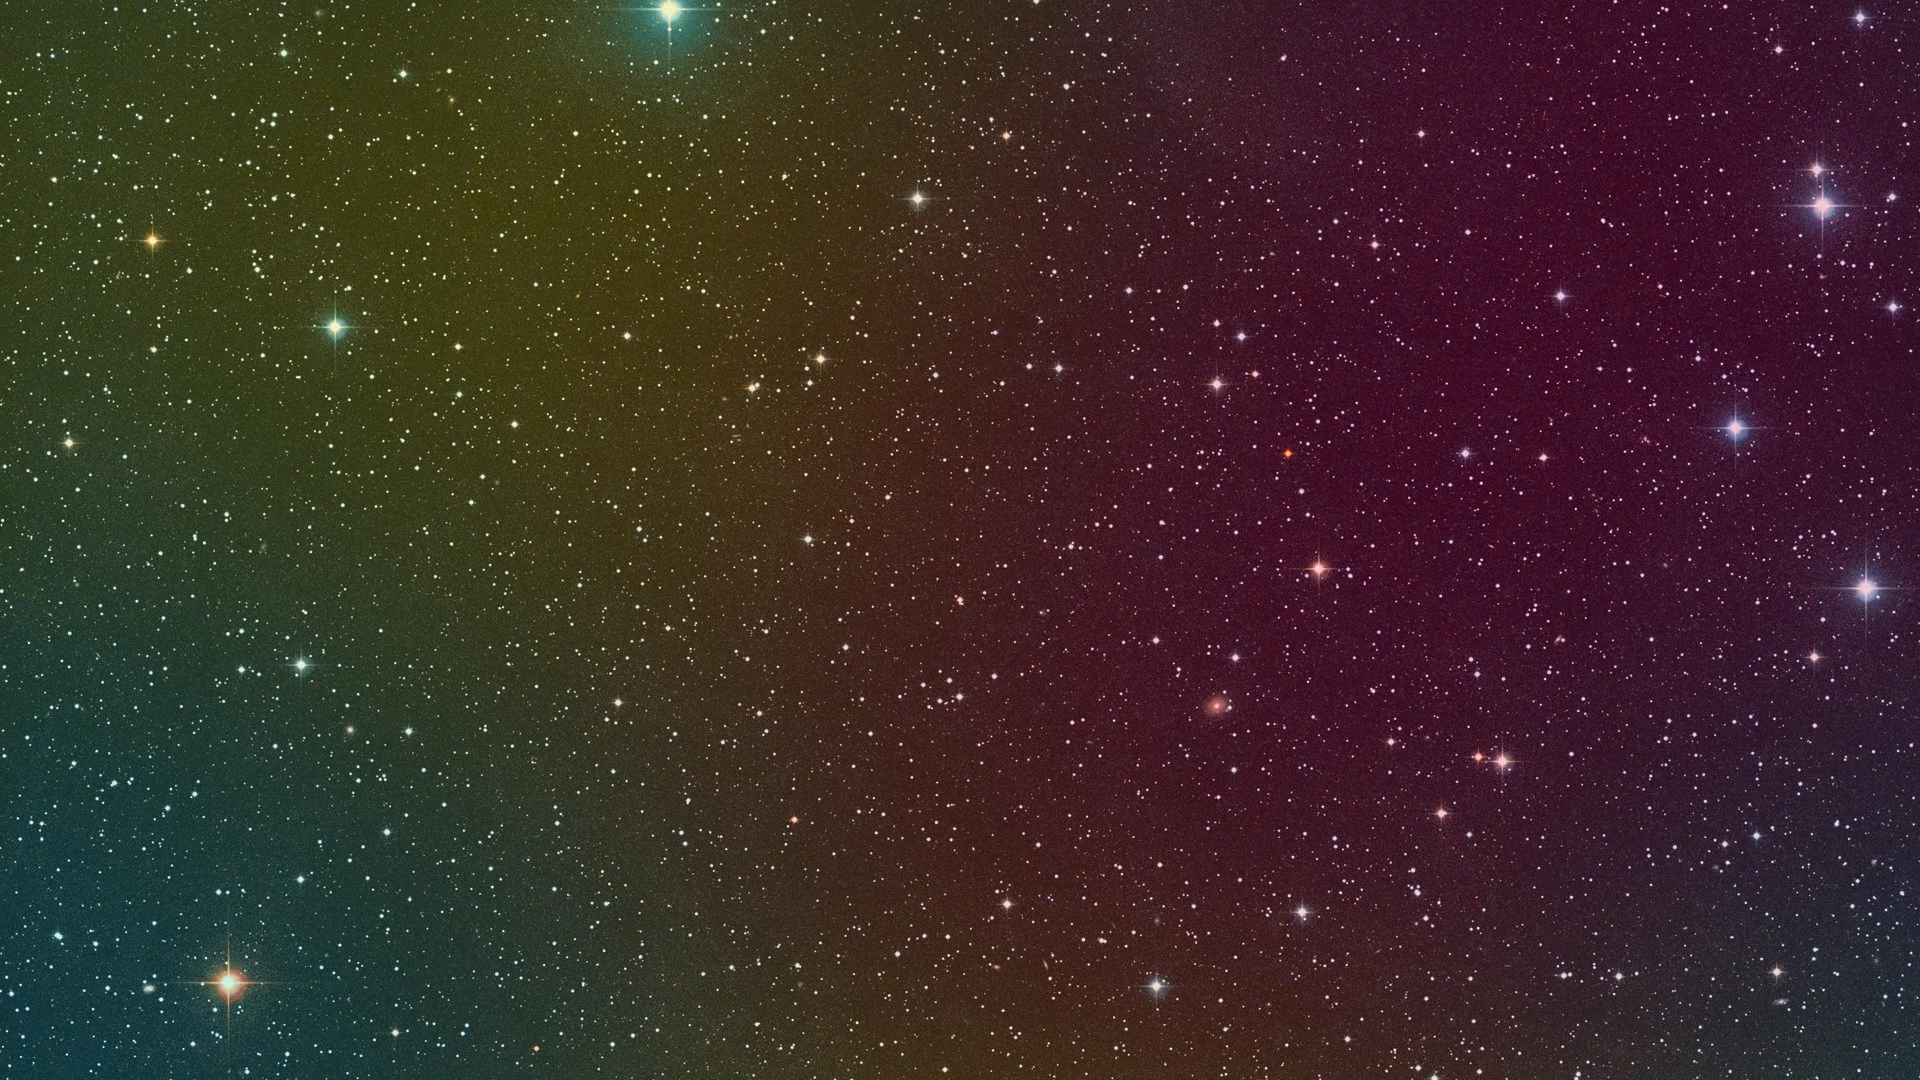
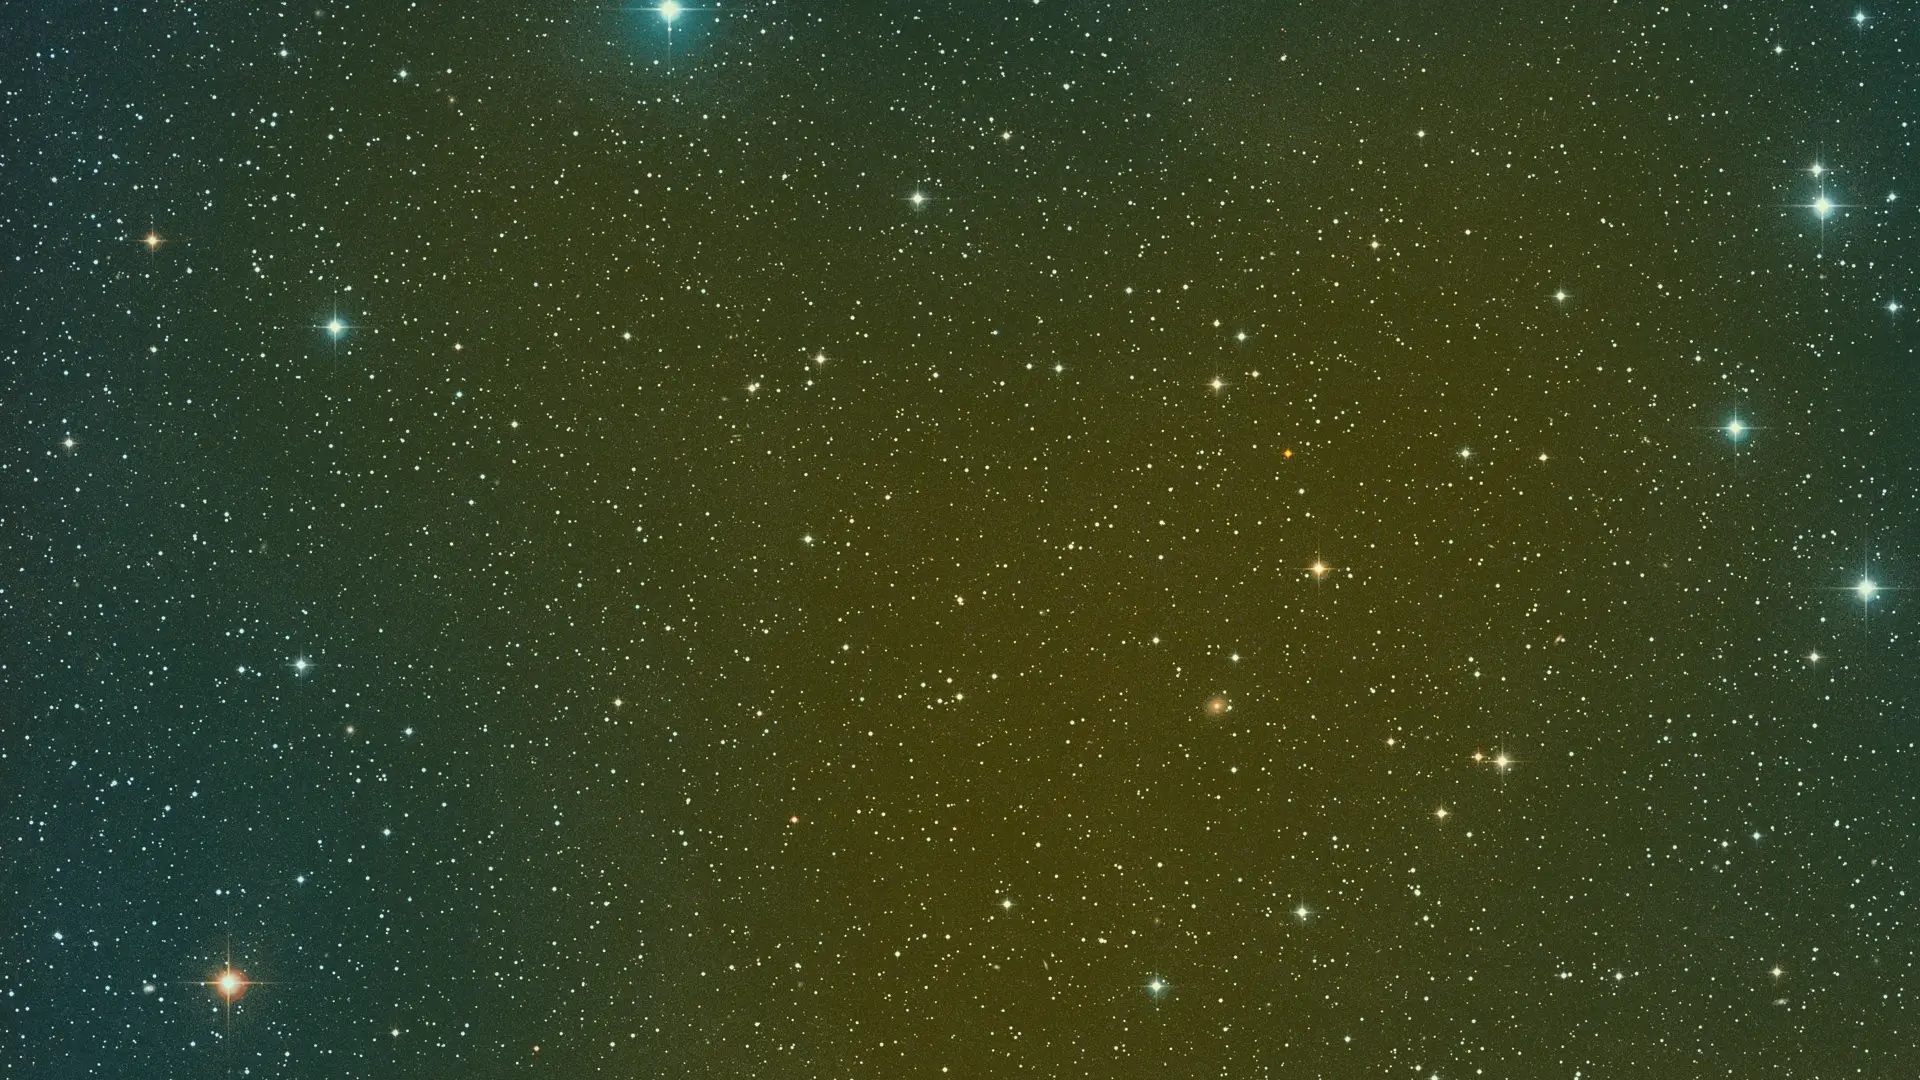
Itsy Bitsy 2.0
the social bar now flexes and animates well, my hard work has paid off. AND, I might get a 100 across the board on PageSpeed insights!!! :D

diff --git a/index.html b/index.html
@@ -1,38 +1,44 @@
 <!DOCTYPE html>
 <html lang="en">
-     <head>
-          <link rel="stylesheet" href="style1.css">
-          <title>Itsy Bitsy</title>
-          <link rel="canonical" href="https://www.itsybitsyband.com">
-          <meta name="description" content="The official page for the music of Boise's own Itsy Bitsy.">
-          <link rel="apple-touch-icon" sizes="180x180" href="images/fstuff/apple-touch-icon.png">
-          <link rel="icon" type="image/png" sizes="32x32" href="images/fstuff/favicon-32x32.png">
-          <link rel="icon" type="image/png" sizes="16x16" href="images/fstuff/favicon-16x16.png">
-          <link rel="manifest" href="images/fstuff/site.webmanifest">
-          <link rel="mask-icon" href="images/fstuff/safari-pinned-tab.svg" color="#e00971">
-          <meta name="msapplication-TileColor" content="#ff0000">
-          <meta name="theme-color" content="#ffffff">
-     </head>
-     <body>
-         <img src="images/logo.svg" alt="Itsy Bitsy logo" class="centerlogo">
-         <div class="sbuttons">
-         <ul>
-           <li>
-             <a href="http://www.instagram.com/theitsybitsyband" aria-label="Visit Itsy Bitsy's Instagram page" target="_blank">
-               <img src="images/social/insta1.png" style="width:5.208vw;min-width:75px;" alt="Instagram">
-             </a>
-           </li>
-           <li>
-             <a href="http://www.youtube.com/@theitsybitsyband" aria-label="Visit Itsy Bitsy's YouTube channel" target="_blank">
-               <img src="images/social/yt1.png" style="width:5.208vw;min-width:75px;" alt="YouTube">
-             </a>
-           </li>
-           <li>
-             <a href="http://www.twitter.com/itsytweetsy" aria-label="Visit Itsy Bitsy's Twitter/X page" target="_blank">
-               <img src="images/social/tw1.png" style="width:5.208vw;min-width:75px;" alt="Twitter/X">
-             </a>
-           </li>
-         </ul>
-         </div>
-     </body>
+ <head>
+  <title>Itsy Bitsy</title>
+  <link rel="canonical" href="https://www.itsybitsyband.com">
+  <meta name="description" content="The official page for the music of Boise's own Itsy Bitsy.">
+  <link rel="stylesheet" href="style1.css">
+  <meta name="viewport" content="width=device-width, initial-scale=1.0">
+
+  <link rel="apple-touch-icon" sizes="180x180" href="images/fstuff/apple-touch-icon.png">
+  <link rel="icon" type="image/png" sizes="32x32" href="images/fstuff/favicon-32x32.png">
+  <link rel="icon" type="image/png" sizes="16x16" href="images/fstuff/favicon-16x16.png">
+  <link rel="manifest" href="images/fstuff/site.webmanifest">
+  <link rel="mask-icon" href="images/fstuff/safari-pinned-tab.svg" color="#e00971">
+  <meta name="msapplication-TileColor" content="#ff0000">
+  <meta name="theme-color" content="#ffffff">
+ </head>
+ <body>
+  <img src="images/logo.svg" alt="Itsy Bitsy logo" class="centerlogo">
+  <ul style="list-style-type:none;padding:0;margin:0;" class="socbar">
+   <li>
+    <a href="https://instagram.com/theitsybitsyband" aria-label="Visit Itsy Bitsy's Instagram page" target="_blank">
+     <button class="soc">
+      <img src="images/social/insta.svg" style="width:37.5px;height:37.5px;margin:auto;">
+     </button>
+    </a>
+   </li>
+   <li>
+    <a href="https://youtube.com/@theitsybitsyband" aria-label="Visit Itsy Bitsy's YouTube channel" target="_blank">
+     <button class="soc">
+      <img src="images/social/yt.svg" style="width:37.5px;height:37.5px;margin:auto;">
+     </button>
+    </a>
+   </li>
+   <li>
+    <a href="https://twitter.com/itsytweetsy" aria-label="Visit Itsy Bitsy's Twitter/X page" target="_blank">
+     <button class="soc">
+      <img src="images/social/twit.svg" style="width:37.5px;height:37.5px;margin:auto;">
+     </button>
+    </a>
+   </li>
+  </ul>
+ </body>
 </html>

diff --git a/style1.css b/style1.css
@@ -1,40 +1,52 @@
 html {
-     height: 100%;
-}
-body {
-     background-color: #0F0F0F;
-     background-image: url(images/ibspace.webp);
-     background-size: 100%;
-     background-size: cover;
-     background-repeat: no-repeat;
+ height: 100%;
+ width: 100%;
+ background-color: #0F0F0F;
+ background: url(images/ibspace.webp);
+ background-repeat: no-repeat;
+ background-attachment: fixed;
+ background-size: cover;
+ background-origin: content-box;
 }
 .centerlogo {
-     top: 50%;
-     left: 50%;
-     right: 0;
-     bottom: 0;
-     position: absolute;
-     transform: translate(-50%, -50%);
-     height: 33.33vh;
-     width: 33.33vw;
-     min-height: 75px;
-     min-width: 330px;
+ top: 50%;
+ left: 50%;
+ bottom: 0;
+ right: 0;
+ transform: translate(-50%, -50%);
+ position: absolute;
+ max-width: 75vw;
+ max-height: 35vh;
 }
-.sbuttons {
-     display: flex;
-     top: 77.5%;
-     left: 50%;
-     position: absolute;
-     transform: translate(-50%, -77.5%);
+button.soc {
+ display: flex;
+ transition: all 0.2s ease, visibility 0s;
+ border-radius: 100px;
+ background: #E00971;
+ border: 5px solid #000000;
+ padding: 10px;
+ text-align: center;
+ margin: 0 0.3vw;
 }
-ul {
-     list-style-type: none;
-     padding-left: 0;
-     display: inline-block;
+button.soc:hover {
+ background: #22C5DD;
+ cursor:pointer;
 }
-ul a {
-     margin: 0 0.78125vw;
+.socbar {
+ display: flex;
+ position: absolute;
+ top: 80%;
+ left: 50%;
+ transform: translate(-50%, -80%);
+ padding-left: 0;
+ margin: 0 0.25vw;
+ justify-content: evenly;
+}
+.socbar:after {
+ content: "";
+ clear: both;
+ display: table;
 }
 li {
-     float: left;
+ display: inline-block;
 }
